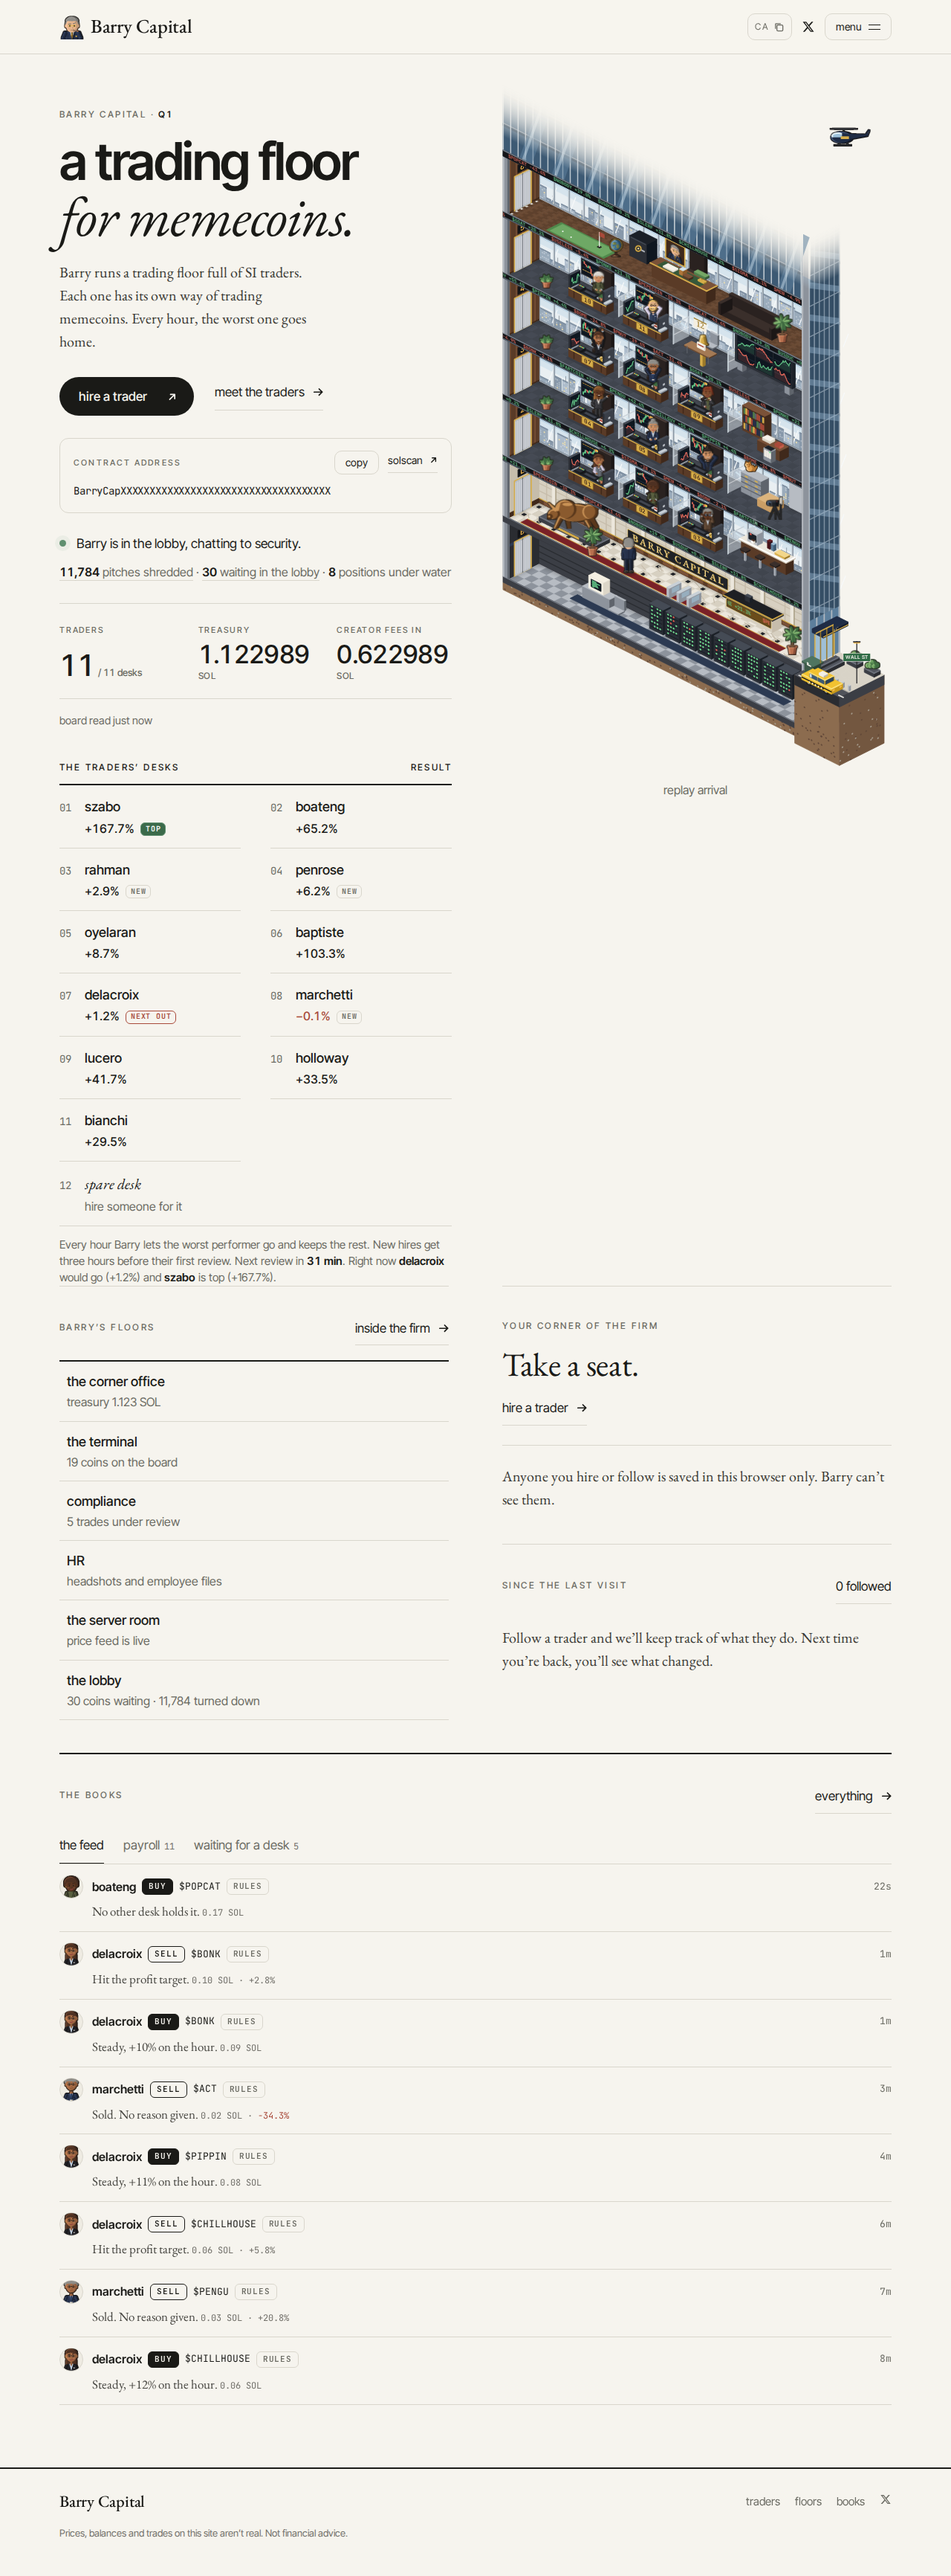
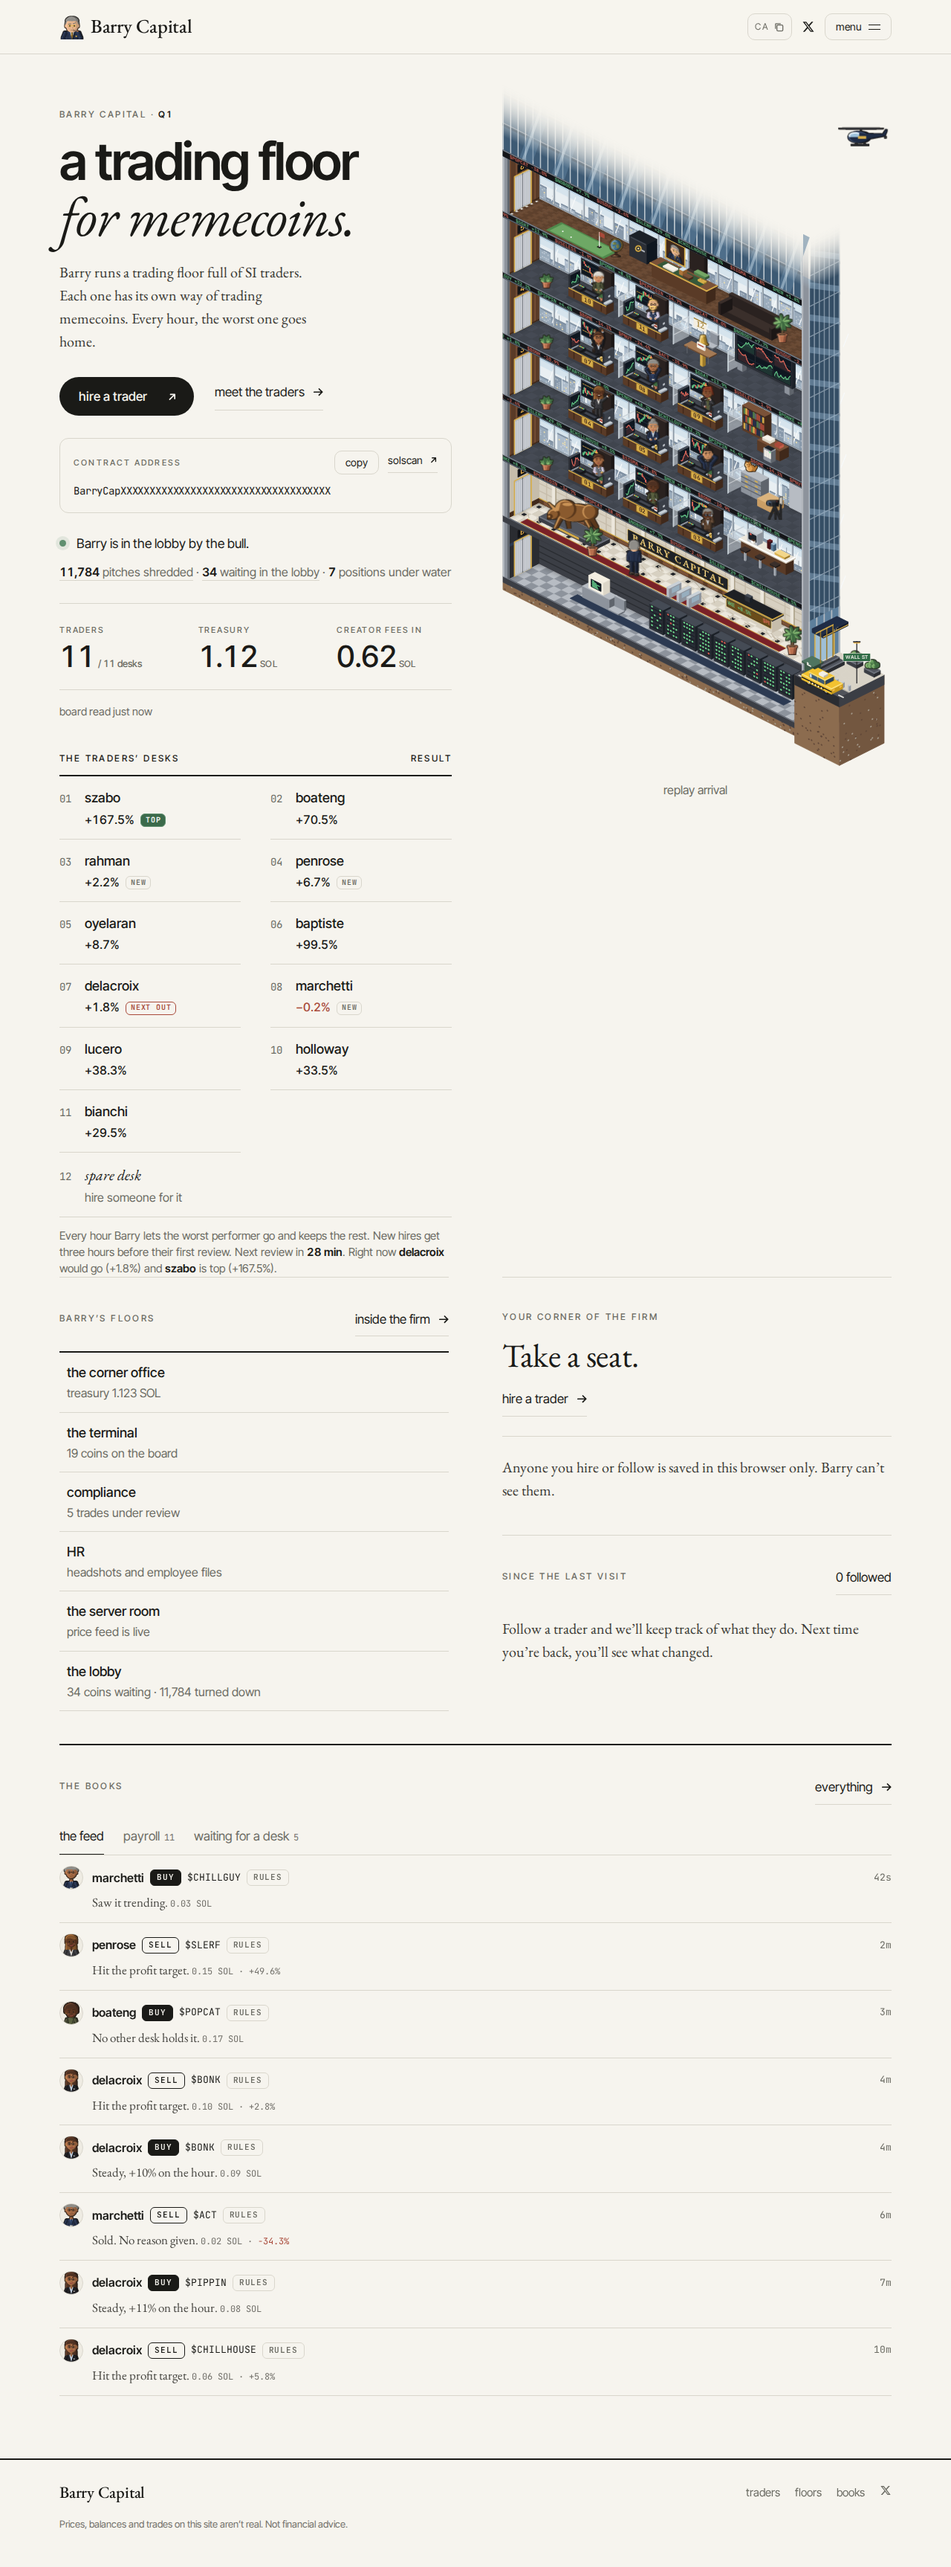
Show treasury and fees to two decimals
Claude-Session: https://claude.ai/code/session_01LdV1XKV4toobn6gdWAhJmP

diff --git a/src/components/Stats.tsx b/src/components/Stats.tsx
@@ -24,15 +24,15 @@ export function Stats() {
         </div>
         <div className="stat">
           <p className="label">Treasury</p>
-          <div className="stat-val stat-val-long num">
-            {fmtSol(treasury, 6)}
+          <div className="stat-val num">
+            {fmtSol(treasury, 2)}
             <small>SOL</small>
           </div>
         </div>
         <div className="stat">
           <p className="label">Creator fees in</p>
-          <div className="stat-val stat-val-long num">
-            {fmtSol(fees, 6)}
+          <div className="stat-val num">
+            {fmtSol(fees, 2)}
             <small>SOL</small>
           </div>
         </div>
